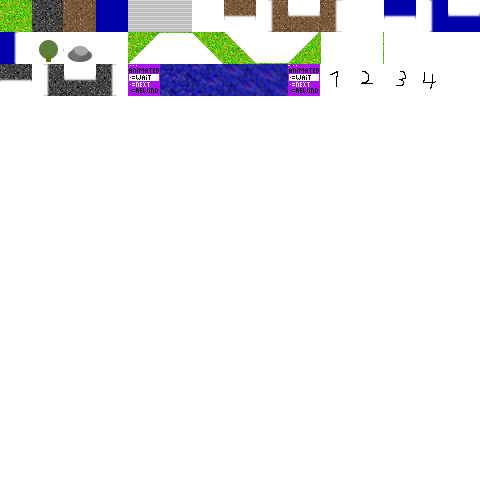
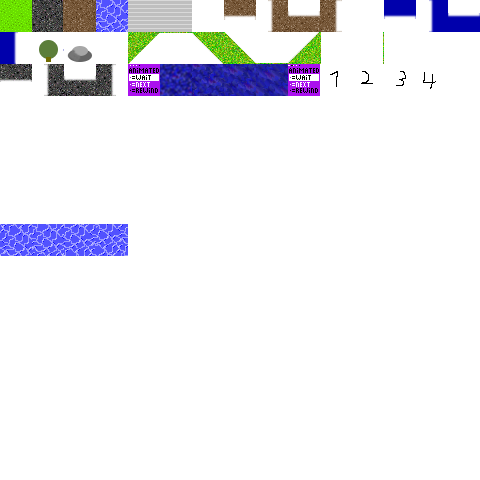
Bugfix in map saving. More pixel-styled grass tiles.

Changed region(s): [[0.0, 0.4688, 0.2812, 0.5312], [0.0, 0.0, 0.0938, 0.0938], [0.1875, 0.0, 0.2812, 0.0938]]

diff --git a/lib/tima/layer.rb b/lib/tima/layer.rb
@@ -65,7 +65,7 @@ module Tima
       res = StringIO.new('')
       res.puts('  layer {')
       res.puts("    z    #{z}")
-      res.puts("    size #{@wide_tile} #{@high_tile} #{TILEWIDE} #{TILEHIGH}")
+      res.puts("    size #{@wide_tile} #{@high_tile} #{TILE_WIDE} #{TILE_HIGH}")
       res.puts('    data {')
       for y in (0...@high_tile) do
         res.puts("      row #{y} " + @indexes[y].join(' '))
